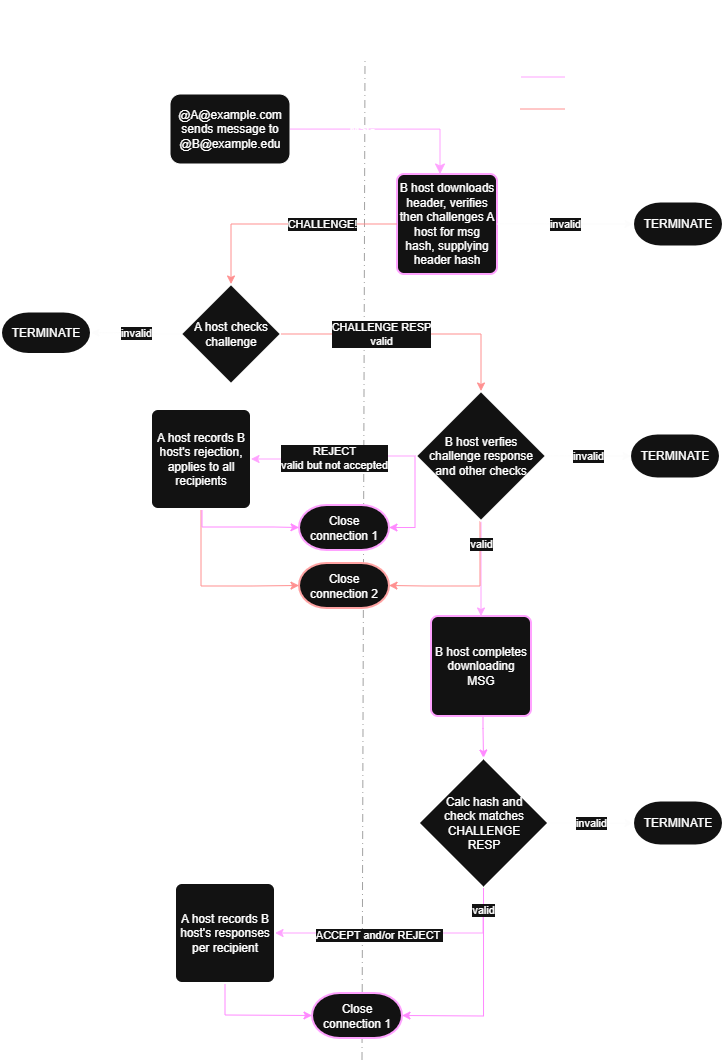
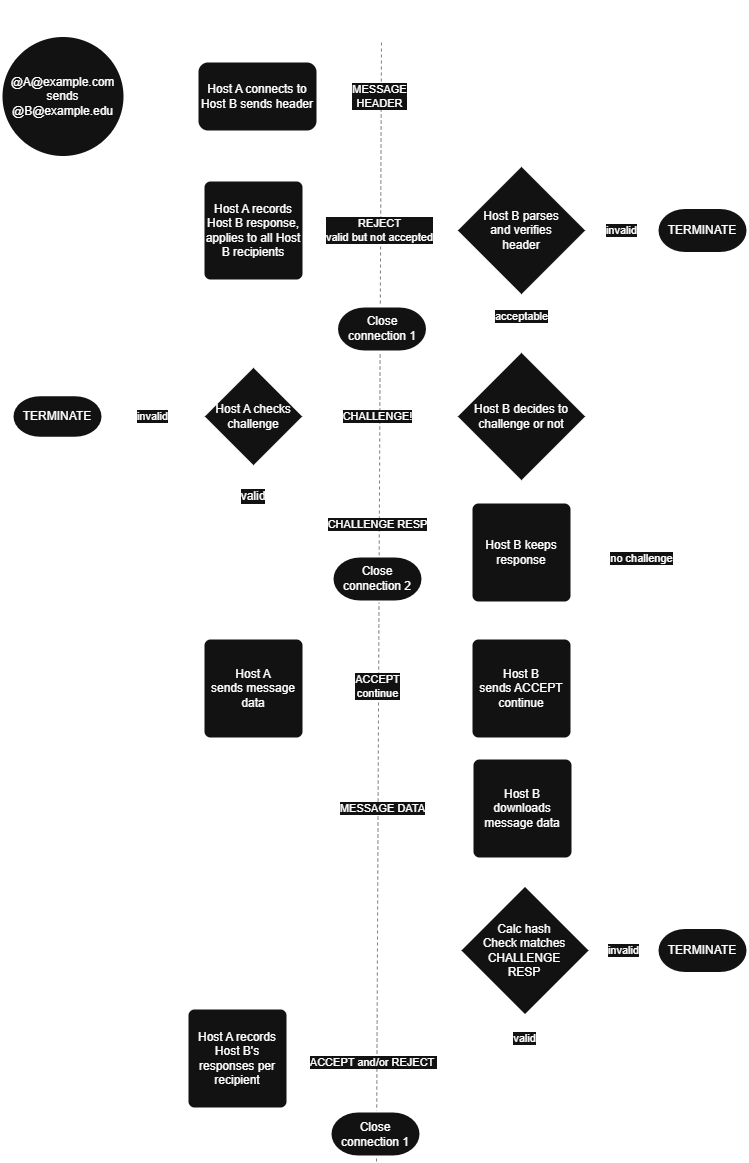
flow-diags w/o add to, ACCEPT continue, add to and skip data response post challenge

diff --git a/SPECIFICATION.md b/SPECIFICATION.md
@@ -194,11 +194,11 @@ On the wire messages are encoded thus:
 ### Notes on Adding Recipients
 
 Adding recipients is achieved by sending a whole new distinct message, that is an exact duplicate of the message to which recipients are being added, except:
-    * The _has add to_ flag bit is set
-    * _pid_ references the message which recipients are being added to.
-    * _add to from_ exists and is the address of the participant in the previous message adding the additional recipients, i.e. the sender.
-    * _add to_ exists and is addresses of the new recipients being added.
-    * _time_ is the POSIX epoch time of this new message with added recipients was ready for sending.
+* The _has add to_ flag bit is set
+* _pid_ references the message which recipients are being added to.
+* _add to from_ exists and is the address of the participant in the previous message adding the additional recipients, i.e. the sender.
+* _add to_ exists and is addresses of the new recipients being added.
+* _time_ is the POSIX epoch time of this new message with added recipients was ready for sending.
 
 
 ### Notes on Time
@@ -419,7 +419,7 @@ Other codes 100 and above are per recipient in the same order as recipients for 
 
 ## Protocol
 
-A message is sent from the sender's host to each unique recipient host (i.e. each domain only once even if multiple recipients at the same domain). Sending a message either succeeds or fails per recipient of the host for the domain being sent to. During the sending from one host to another several steps are performed depicted in the below diagram. Two connection-orientated, reliable, in-order and duplex transports are required to perform the full flow. Transmission Control Protocol (TCP) is an obvious choice, on top of which Transport Layer Security (TLS) may meet your encryption needs. This specification is independent of transport mechanisms which are instead defined as standards such as: [FMSG-001 TCP+TLS Transport and Binding Standard](../standards/fmsg-001-transport-and-binding.md).
+A message is sent from the sender's host to each unique recipient host (i.e. each domain only once even if multiple recipients at the same domain). Sending a message either succeeds or fails per recipient of the host for the domain being sent to. During the sending from one host to another several steps are performed depicted in the below diagram. Two connection-orientated, reliable, in-order and duplex transports are required to perform the full flow. Transmission Control Protocol (TCP) is an obvious choice, on top of which Transport Layer Security (TLS) may meet your encryption needs. This specification is independent of transport mechanisms which are instead defined as standards such as: [FMSG-001 TCP+TLS Transport and Binding Standard](/markmnl/fmsg/blob/main/standards/fmsg-001-transport-and-binding.md).
 
 <p align="center">
 <picture>
@@ -480,12 +480,11 @@ The following variables corresponding to host defined configuration are used in 
         1. If DELTA is greater than MAX_MESSAGE_AGE, Host B MUST respond REJECT code 7 (too old) then close the connection completing the message exchange.
         2. If DELTA is negative and absolute DELTA is greater than MAX_TIME_SKEW, Host B MUST respond REJECT code 8 (future time) then close the connection completing the message exchange.
     5. The _pid_ field requirements depends on whether this message includes additional recipients determined by the _has add to_ flag.
-        1. If neither _pid_ nor _add to_ exist, the message is the first in a thread, Host B responds with "ACCEPT or REJECT CODE" 64 (continue) and the message exchange continues.
+        1. If neither _pid_ nor _add to_ exist, the message is the first in a thread, continue.
         2. If _pid_ exists and _add to_ does not.
             1. The message _pid_ refers to MUST be verified to be stored already on Host B per [Verifying Message Stored](#verifying-message-stored); otherwise Host B MUST respond with REJECT code 6 (parent not found) completing the message exchange.
             2. The stored message for _pid_'s _time_ minus MAX_TIME_SKEW MUST be before _time_ on the incoming message header; otherwise Host B MUST respond with REJECT code 9 (time travel) completing the message exchange.
             3. _from_ MUST have been a participant in the stored message referred to by _pid_; otherwise Host B MUST respond with REJECT code 1 (invalid) completing the message exchange.
-            4. Host B responds with "ACCEPT or REJECT CODE" 64 (continue) and the message exchange continues.
             
             _NOTE_ Verifying Message Stored checks the host has the parent message, not that every recipient still has it in their message store. Implementations MAY consider restoring the parent message to a recipient's message store if that _recipient_ no longer has the message, so that the incoming reply has proper thread context for all recipients.
         3. Else _add to_ exists;
@@ -494,15 +493,8 @@ The following variables corresponding to host defined configuration are used in 
             3. If original message referred to by _pid_ is verified to be stored AND;
                 1. The stored message for _pid_'s _time_ minus MAX_TIME_SKEW MUST be before _time_ on the incoming message header; otherwise Host B MUST respond with REJECT code 9 (time travel).
                 2. If none of the _add to_ recipients are for Host B:
-                    1. At this stage Host B has been informed additional recipients have been added to a message it has previously accepted. Host B MUST record these new fields: _add to from_, _add to_ recipients and _time_, along with the fact code 11 was sent in response, such that the message hash can be faithfully computed with and without this batch of additional recipients as per [Verifying Message Stored](#verifying-message-stored). This is because either the original message or message with the just added recipients could be referred to by subsequent messages. Host B MUST then respond with ACCEPT code 11 (accept add to) then close the connection completing the message exchange.
-            
-                3. If any of the _add to_ recipients are for Host B:
-                    1. Host B MUST respond with "ACCEPT or REJECT CODE" 65 (skip data) and message exchange continues. Host B MUST keep aware of this reponse needed in step 3.2 below.
-                    
-                    _NOTE_ Host B has verfied it already has message referred to by _pid_ which means this message is an exact duplicate except for (_add to from_, _add to_, time and possibly _topic_)
-
+                    1. At this stage Host B has been informed additional recipients have been added to a message it has previously accepted. Host B MUST record these new fields: _add to from_, _add to_ recipients and _time_, along with the fact code 11 was sent in response, such that the message hash can be faithfully computed with and without this batch of additional recipients as per [Verifying Message Stored](#verifying-message-stored). This is because either the original message or message with the just added recipients could be referred to by subsequent messages. 
             4. Otherwise (original message has not been found, possible because Host B was never a participant of the message, or the message referenced by _pid_ is no longer held);
-                    1. Host B responds with "ACCEPT or REJECT CODE" 64 (continue) and the message exchange continues.
 
 
 #### 2. The Automatic Challenge
@@ -516,7 +508,7 @@ For example, a host MAY implement different challenge modes of operation such as
 3. HAS_NOT_PARTICIPATED, recipient host will send a CHALLENGE when _pid_ does not exist or none of the linked messages in the thread following each message's _pid_ are from a recipient on Host B's domain.
 4. DIFFERENT_DOMAIN, recipient host will always send a CHALLENGE during the message exchange if the sender (i.e. _add to from_ if _has add to_ flag set, otherwise _from_) belongs to a different domain.
 
-To issue a CHALLENGE a Receiving Host follows these steps:
+If Host B decides To issue a CHALLENGE, then it follows these steps:
 
 1. Before continuing to download the remaining data on Connection 1, Host B MUST initiate a separate new connection (Connection 2) back to Host A using the same incoming IP address of Connection 1.
 2. Host B sends a CHALLENGE to Host A, supplying the message header hash of the message header received on Connection 1.
@@ -539,14 +531,22 @@ Challenging is particularly IMPORTANT for messages with _add to_ recipients for 
 Ultimately, whether to challenge or not is at the discretion of the receiving host.
 
 
-#### 3. Integrity Verification, Per-Recipient Response and Disposition
+#### 3. Continue, Per-Recipient Response and Disposition
 
-1. Host B performs some checks before continuing to download the remaining message being transmitted on Connection 1.
+1. Iff _add to_ exists and message was verified to be stored in step 1.4.5.3.2 above:
+    1. If any of the _add to_ recipients are for Host B:
+        1. Host B MUST respond with "ACCEPT or REJECT CODE" 65 (skip data) and message exchange continues.
+        
+        _NOTE_ Host B has verfied it already has message referred to by _pid_ which means this message is an exact duplicate except for (_add to from_, _add to_ and time)
+    2. Otherwise none of the recipients were found to be for Host B;
+        1. Host B MUST then respond with ACCEPT code 11 (accept add to) then close the connection completing the message exchange.
+2. Otherwise, Host B responds with "ACCEPT or REJECT CODE" 64 (continue) and the message exchange continues.
+3. Host B performs some checks before continuing to download the remaining message being transmitted on Connection 1.
     1. If the CHALLENGE, CHALLENGE-RESP exchange was completed, the message hash received in the CHALLENGE-RESP SHOULD be used to check if the message is already stored for **all** recipients on Host B per [Verifying Message Stored](#verifying-message-stored).
         1. If the message is found to be already stored for all recipients on Host B, Host B MUST respond REJECT code 10 (duplicate) then close the connection completing the message exchange.
-2. If Host B responded earlier with "ACCEPT or REJECT CODE" 65 (skip data), Host B MUST NOT read any further data from Connection 1. Otherwise, Host B continues downloading the exact remaining bytes i.e. the sum of message _size_ plus any attachments _size_.
-3. If the CHALLENGE, CHALLENGE-RESP exchange was completed, the message hash received in the CHALLENGE-RESP MUST exactly match the computed message hash per [Computing Message Hash](#computing-message-hash); otherwise Host B MUST TERMINATE the message exchange.
-4. Host B transmits an "ACCEPT or REJECT RESPONSE" code to Host A for each individual recipient belonging to Host B.
+4. If Host B responded earlier with "ACCEPT or REJECT CODE" 65 (skip data), Host B MUST NOT read any further data from Connection 1. Otherwise, Host B continues downloading the exact number of remaining bytes i.e. the sum of message _size_ plus any attachments _size_.
+5. If the CHALLENGE, CHALLENGE-RESP exchange was completed, the message hash received in the CHALLENGE-RESP MUST exactly match the computed message hash per [Computing Message Hash](#computing-message-hash); otherwise Host B MUST TERMINATE the message exchange.
+6. Host B transmits an "ACCEPT or REJECT RESPONSE" code to Host A for each individual recipient belonging to Host B.
     1. Host B iterates through each address for its domain (example.edu) in the order they appear in _to_ then in _add to_ (if any). Note for any REJECT code specific to a user, 105 (user undisclosed) MAY be used instead — so Host B does not have to disclose the reason message was not accepted for that address. For each recipient:
         1. Host B looks up implementation specific data for the recipient address such as quotas and whether the address is accepting new messages.
         2. If the message has already been received for this recipient, Host B MUST respond either REJECT code 103 (user duplicate) OR REJECT code 105 (user undisclosed).
@@ -555,7 +555,7 @@ Ultimately, whether to challenge or not is at the discretion of the receiving ho
         5. Else if the address is not accepting new messages, Host B MUST respond either REJECT code 102 (user not accepting) OR REJECT code 105 (user undisclosed).
         6. Otherwise, Host B MUST respond ACCEPT code 200 (accepted) for the recipient address 
     2. Host A MUST record the "ACCEPT or REJECT RESPONSE" code received per recipient for Host B's domain.
-5. Host A and Host B close Connection 1, completing the message exchange.
+7. Host A and Host B close Connection 1, completing the message exchange.
 
 _NOTE_ When recipients for Host B are added using the _add to_ functionality to a message Host B previously accepted, those previous recipients for Host B (that still have the message) would respond REJECT code 103 (user duplicate), or code 105 (user undisclosed). Implementations SHOULD keep the original accept response code 200 to more accuratly reflect that status of the delivery to that recipient. Implementation MAY choose record the additional response codes as well.
 
